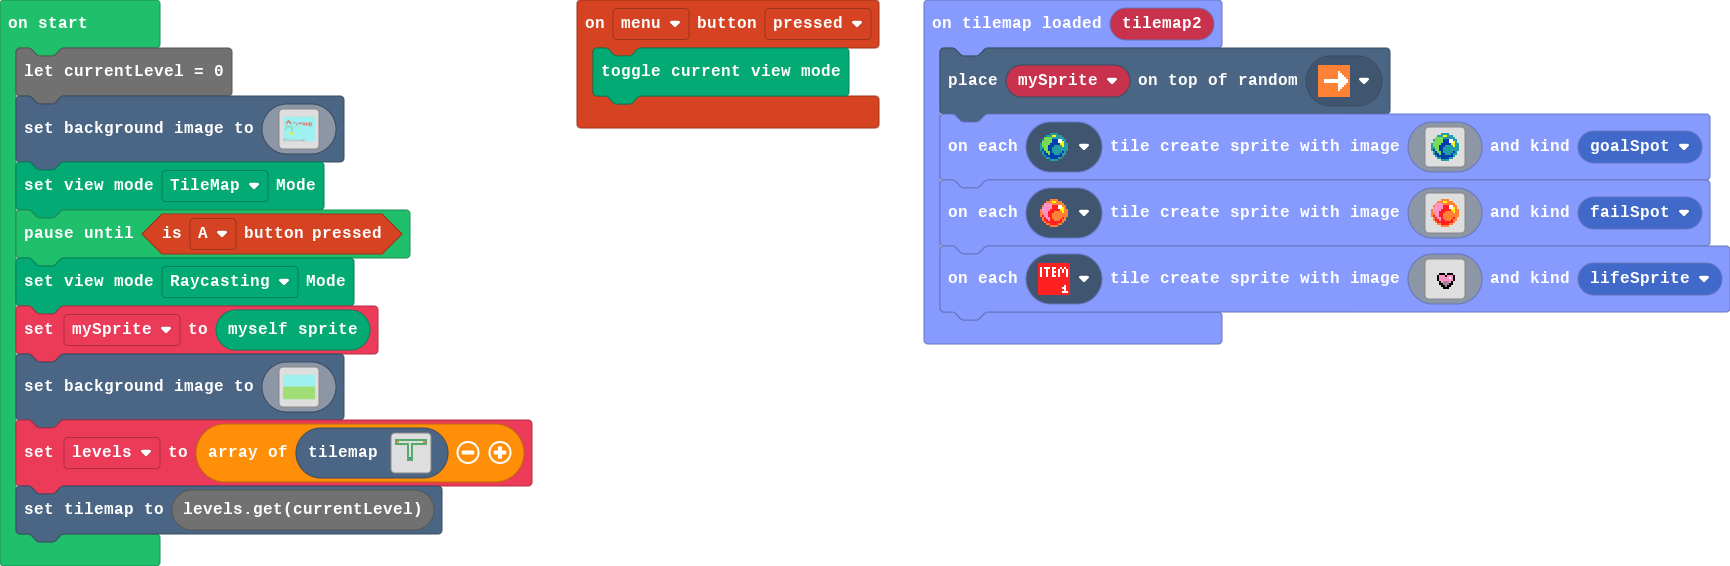
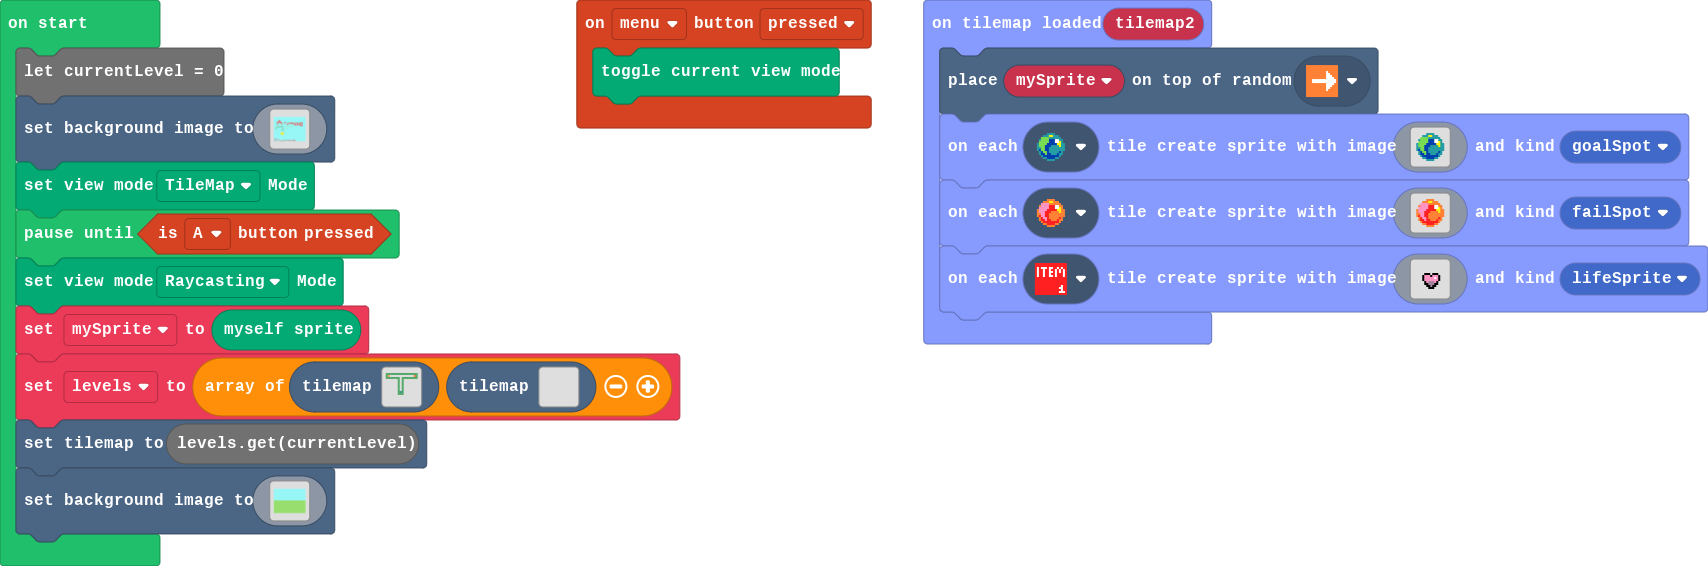
aaaaaaaaaaaaaaaaaa

diff --git a/tilemap.g.ts b/tilemap.g.ts
@@ -28,6 +28,25 @@ namespace myTiles {
 . . . . . . . . . . . . . . . . 
 . . . . . . . . . . . . . . . . 
 `, [myTiles.transparency16,sprites.builtin.forestTiles22,sprites.dungeon.collectibleRedCrystal,sprites.dungeon.collectibleBlueCrystal,sprites.builtin.forestTiles2,myTiles.tile1], TileScale.Sixteen);
+            case "level2":
+            case "level2":return tiles.createTilemap(hex`1000100000000000000000000000000000000000000000000000000000000000000000000000000000000000000000000000000000000000000000000000000000000000000000000000000000000000000000000000000000000000000000000000000000000000000000000000000000000000000000000000000000000000000000000000000000000000000000000000000000000000000000000000000000000000000000000000000000000000000000000000000000000000000000000000000000000000000000000000000000000000000000000000000000000000000000000000000000000000000000000000000000000000000000000000000000000000`, img`
+. . . . . . . . . . . . . . . . 
+. . . . . . . . . . . . . . . . 
+. . . . . . . . . . . . . . . . 
+. . . . . . . . . . . . . . . . 
+. . . . . . . . . . . . . . . . 
+. . . . . . . . . . . . . . . . 
+. . . . . . . . . . . . . . . . 
+. . . . . . . . . . . . . . . . 
+. . . . . . . . . . . . . . . . 
+. . . . . . . . . . . . . . . . 
+. . . . . . . . . . . . . . . . 
+. . . . . . . . . . . . . . . . 
+. . . . . . . . . . . . . . . . 
+. . . . . . . . . . . . . . . . 
+. . . . . . . . . . . . . . . . 
+. . . . . . . . . . . . . . . . 
+`, [myTiles.transparency16], TileScale.Sixteen);
         }
         return null;
     })

diff --git a/main.ts b/main.ts
@@ -19,6 +19,6 @@ Render.setViewMode(ViewMode.tilemapView)
 pauseUntil(() => controller.A.isPressed())
 Render.setViewMode(ViewMode.raycastingView)
 mySprite = Render.getRenderSpriteVariable()
-scene.setBackgroundImage(assets.image`sky`)
-let levels = [tilemap`level1`]
+let levels = [tilemap`level1`, tilemap`level2`]
 tiles.setCurrentTilemap(levels.get(currentLevel))
+scene.setBackgroundImage(assets.image`sky`)
